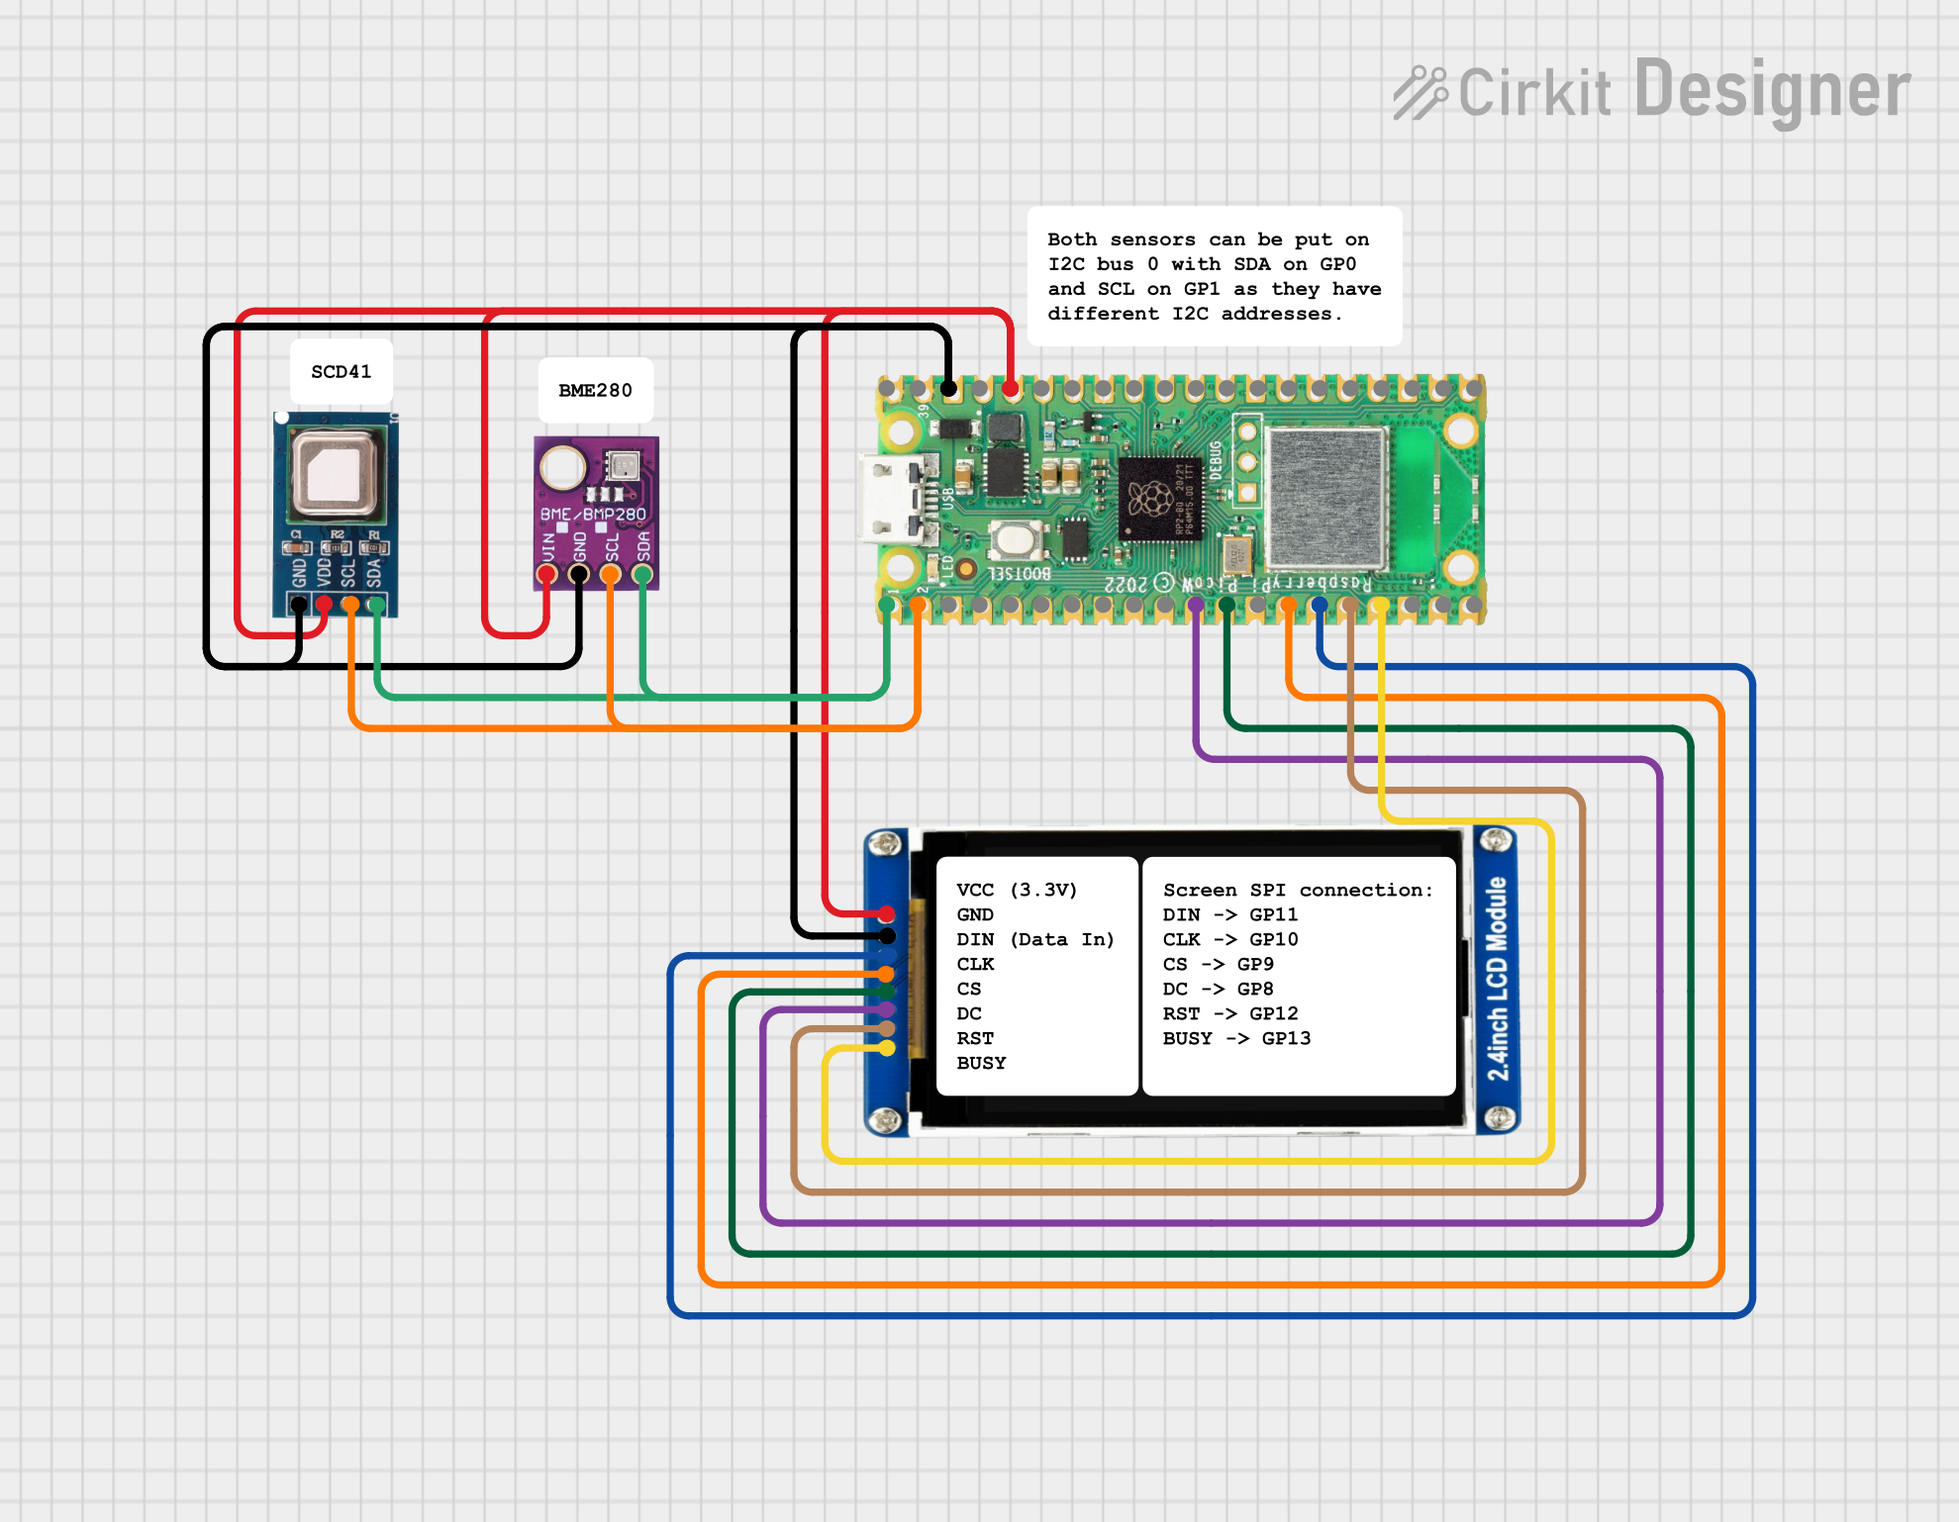
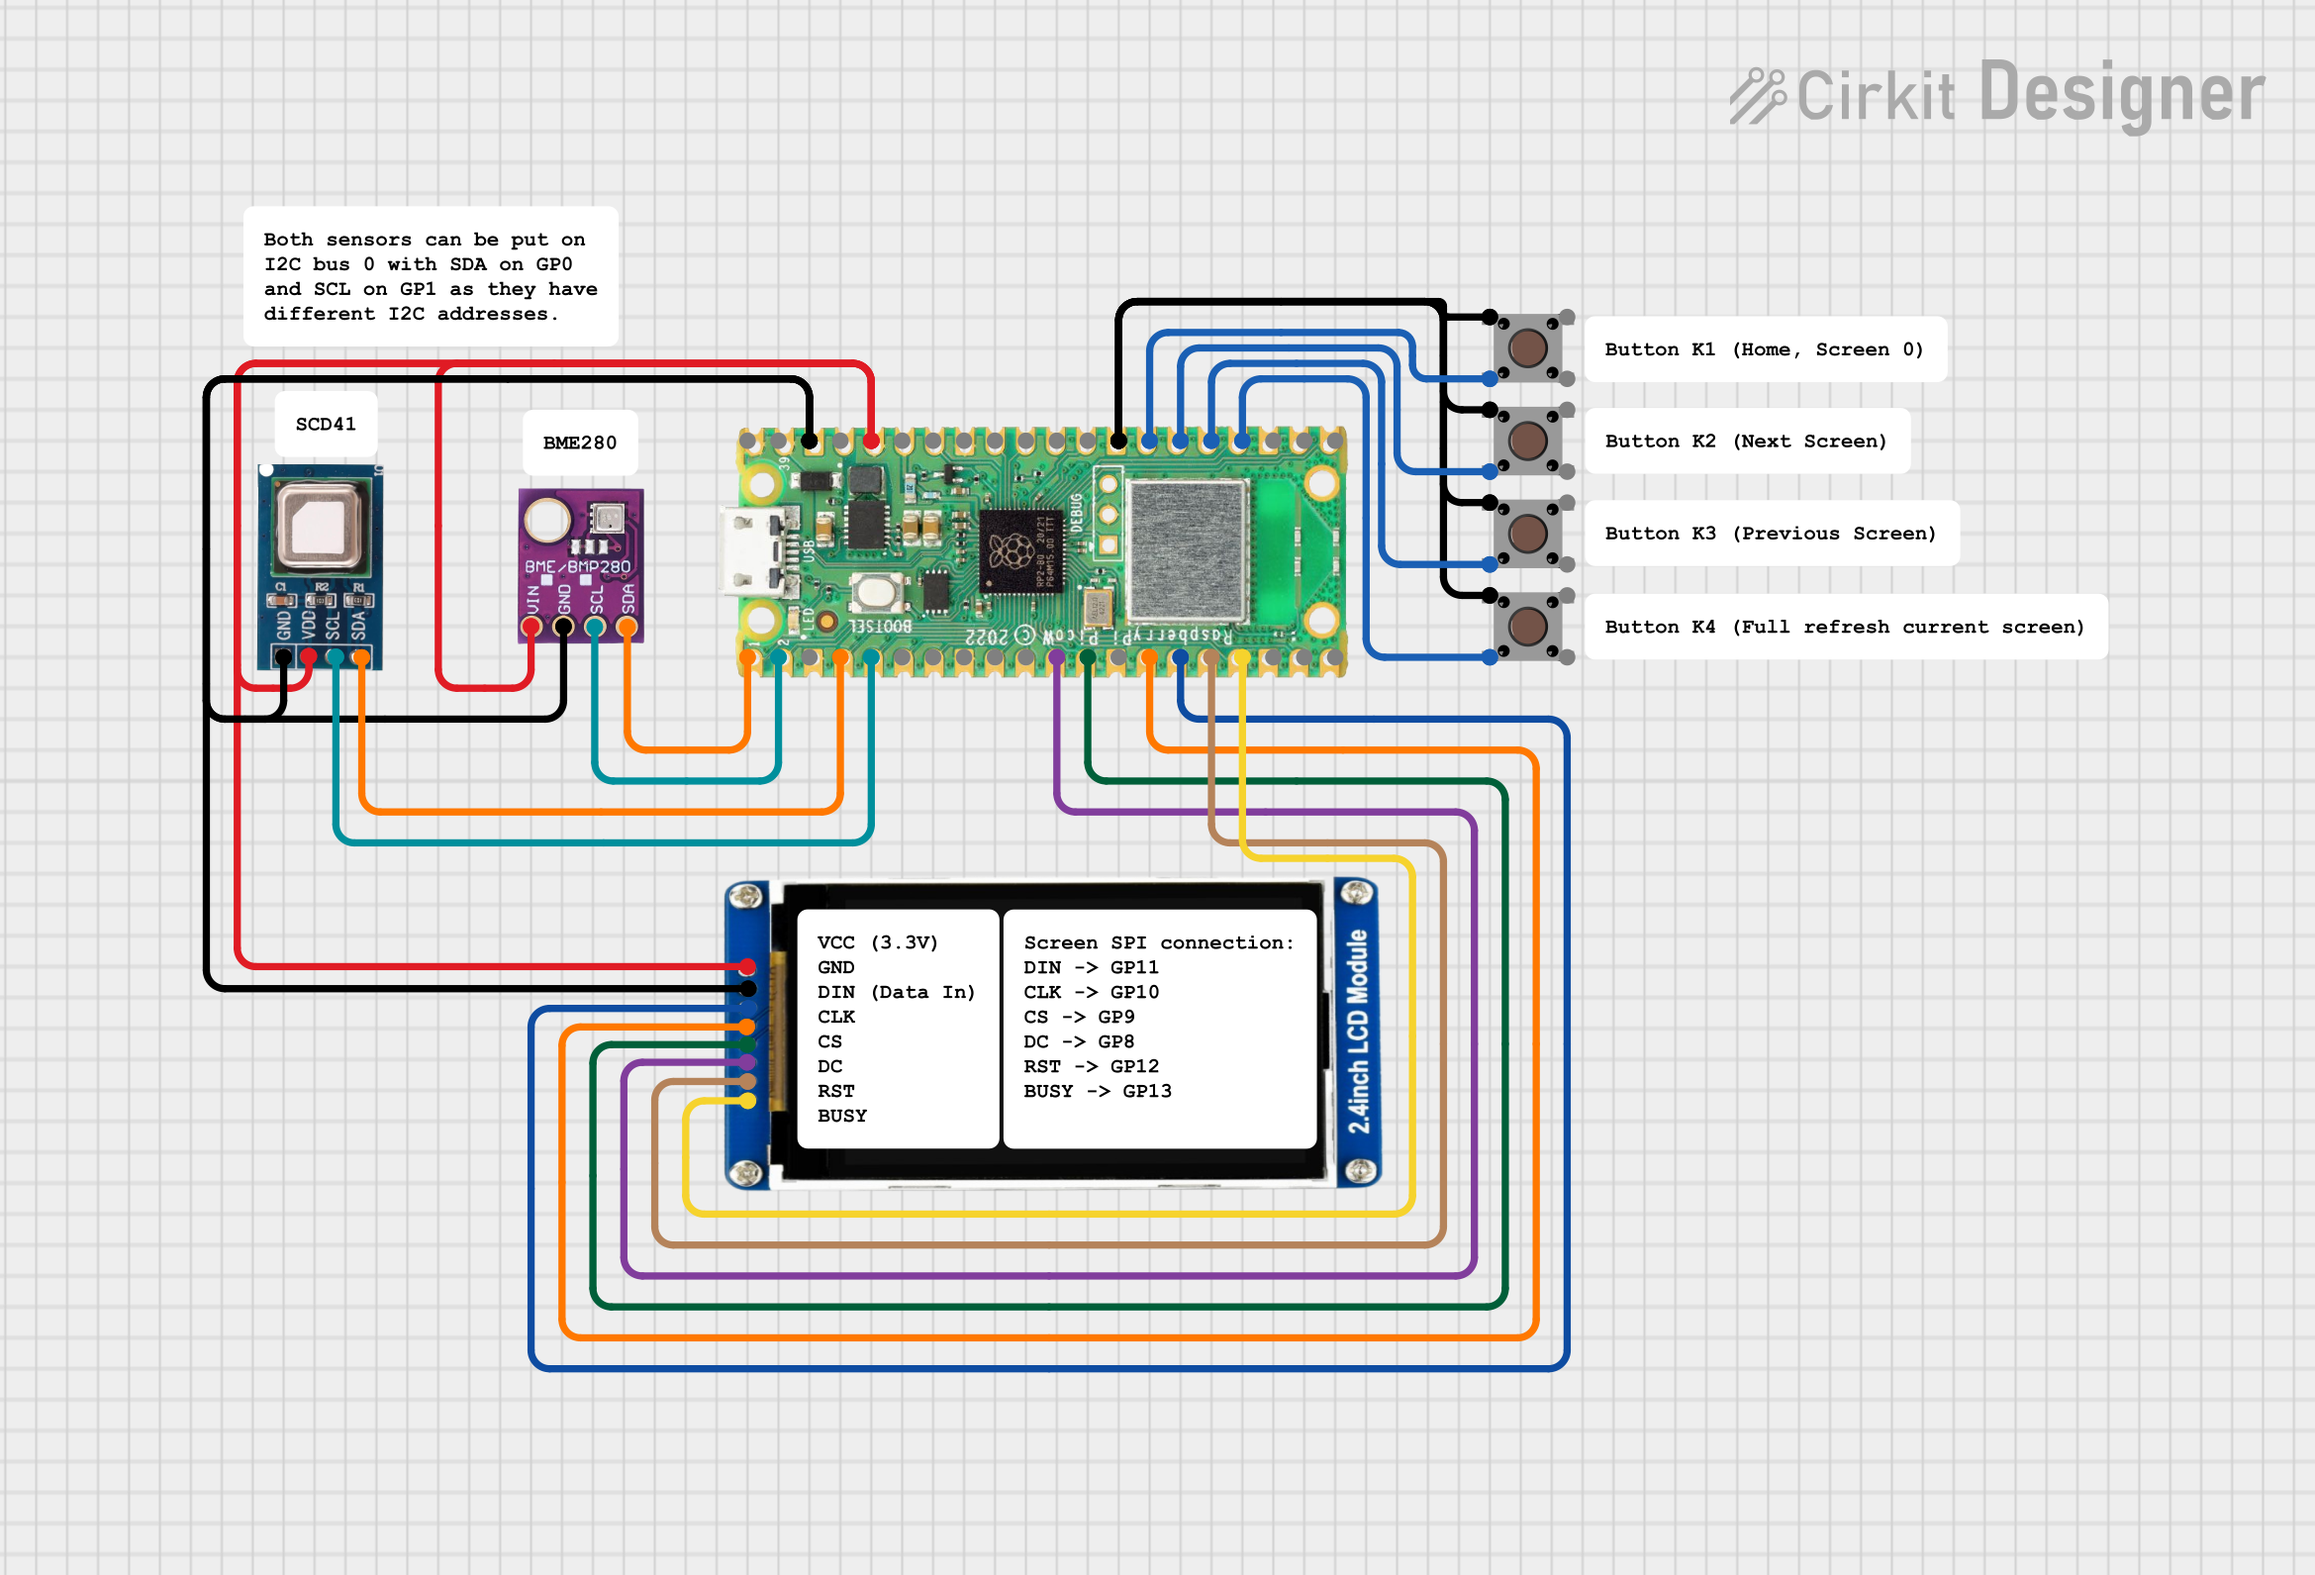
Update Readme

Changed region(s): [[0.0616, 0.1248, 0.9247, 0.8739], [0.7089, 0.0312, 0.9864, 0.0936]]

diff --git a/README.md b/README.md
@@ -52,14 +52,19 @@ This section describes assembling the hardware and installing the firmware for t
 
 ## Assembly
 
-In this section, the assembly of the system is described. As mentioned in the introduction, the system integrates a <b>Raspberry Pi Pico microcontroller</b>, a <b>Waveshare 2.7‑inch E‑Paper display module</b> (264 × 176 pixels), a <b>Waveshare BME280</b> environmental sensor, and a <b>Hailege SCD41 CO₂</b> gas sensor. 
+In this section, the assembly of the system is described. As mentioned in the introduction, the system integrates a <b>Raspberry Pi Pico microcontroller</b>, a <b>Waveshare 2.7‑inch E‑Paper display module</b> (264 × 176 pixels), a <b>Waveshare BME280</b> environmental sensor, and a <b>Hailege SCD41 CO₂</b> gas sensor.
 
-Both sensors are connected to I2C bus 0, with the clock line (<b>SCL</b>) on <b>GP1</b> and the data line (<b>SDA</b>) on <b>GP0</b> of the Raspberry Pi Pico:
+The <b>BME280</b> sensor is connected to I2C bus 0, with the clock line (<b>SCL</b>) on <b>GP1</b> and the data line (<b>SDA</b>) on <b>GP0</b> of the Raspberry Pi Pico:
 
-* SCL → GP1
 * SDA → GP0
+* SCL → GP1
 
-Both devices can share the same general‑purpose pins because they use different I2C addresses (BME280: <b>0x77</b>, SCD41: <b>0x62</b>). The sensors can be powered from either 3.3 V or 5 V, so they may be connected to <b>3V3(OUT)</b>, <b>VSYS</b>, or <b>VBUS</b> on the Pico depending on your power‑supply configuration. So, three power pins can be used at the same time.
+The <b>SCD51</b> sensor is connected to I2C bus 1, with the clock line (<b>SCL</b>) on <b>GP3</b> and the data line (<b>SDA</b>) on <b>GP2</b> of the Raspberry Pi Pico:
+
+* SDA → GP2
+* SCL → GP3
+
+In this project, both sensors are using different I2C busses. However, both devices could also share the same I2C bus because they use different I2C addresses (BME280: <b>0x77</b>, SCD41: <b>0x62</b>). The sensors can be powered from either 3.3 V or 5 V, so they may be connected to <b>3V3(OUT)</b>, <b>VSYS</b>, or <b>VBUS</b> on the Pico depending on your power‑supply configuration. So, three different power pins can be used at the same time.
 
 <p align="center">
   <img src="images/circuit_image.png" width="600" alt="Circuit layout">
@@ -73,6 +78,13 @@ The display is wired using a JST‑to‑Dupont cable (<b>PH2.0, 20 cm, 8‑pin
 * DC → GP8
 * RST → GP12
 * BUSY → GP13
+
+To control the screen, four buttons (K1, K2, K3, K4) are used. Currently, five screen layouts are defined. The K1 button returns to screen 0 (the home screen), K2 switches to the previous screen layout, K3 advances to the next layout, and K4 refreshes the current view, as e‑Paper displays can sometimes show visual artifacts. The buttons share a common ground connection on the <b>Raspberry Pi Pico microcontroller</b>, with the <b>GP21</b> pin assigned to <b>K1</b>, <b>GP20</b> to <b>K2</b>, <b>GP19</b> to <b>K3</b>, and <b>GP18</b> to <b>K4</b> button:
+
+* GND → K1 → GP21
+* GND → K2 → GP20
+* GND → K3 → GP19
+* GND → K4 → GP18
 
 ## Firmware installation
 
